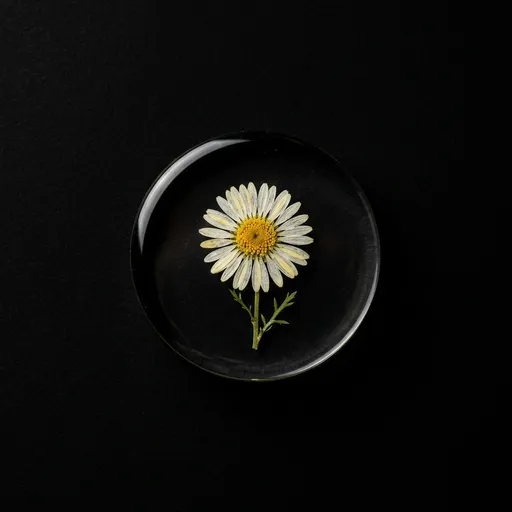
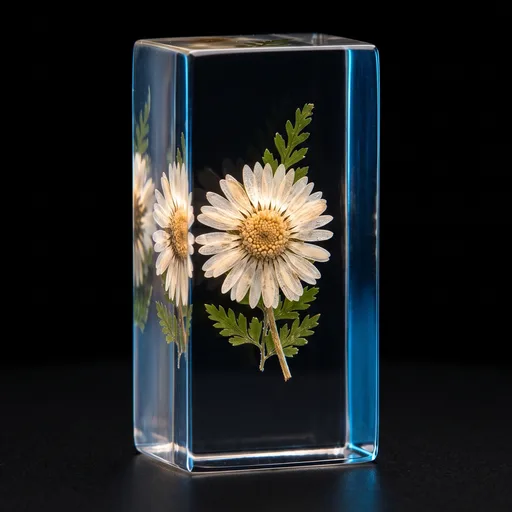
Resin casting: the printed-text tile gets a photo, the keepsake tile a better one
The generator frames the object loosely, and a tile renders at 217 px, so the
relief that is the whole point of the printed-text tile was lost. Cropping
brings both subjects from around two thirds of the frame to 86 per cent. The
raw 2 MB sources sat in public/ and would have shipped to production unused,
so they do not stay in the repository.

Claude-Session: https://claude.ai/code/session_01QfYq6TXNo3Y3WUxZkLPKgN

diff --git a/chat-api/pricing/epoxy.js b/chat-api/pricing/epoxy.js
@@ -306,7 +306,7 @@ export const INCLUSIONS = [
   // Ten sam napis wydrukowany na drukarce zywicznej: efekt lzejszy i bardziej
   // jednorodny z reszta przedmiotu, bo material jest ten sam.
   { id: "text_print", label: { pl: "Napis drukowany w żywicy", en: "Text printed in resin", de: "Schrift in Harz gedruckt" },
-    cost: 12, timeH: 0.8,
+    cost: 12, timeH: 0.8, img: "/img/calc/resin_inclusions/text_print.webp",
     desc: { pl: "Lżejszy, jednorodny z bryłą", en: "Lighter, uniform with the block", de: "Leichter, einheitlich mit dem Block" } },
   { id: "led",      label: { pl: "LED / elektronika", en: "LED / electronics", de: "LED / Elektronik" },
     cost: 15, timeH: 1.5,  img: "/img/calc/resin_inclusions/led.webp" },

diff --git a/src/pricing/epoxy.js b/src/pricing/epoxy.js
@@ -302,7 +302,7 @@ export const INCLUSIONS = [
   // Ten sam napis wydrukowany na drukarce zywicznej: efekt lzejszy i bardziej
   // jednorodny z reszta przedmiotu, bo material jest ten sam.
   { id: "text_print", label: { pl: "Napis drukowany w żywicy", en: "Text printed in resin", de: "Schrift in Harz gedruckt" },
-    cost: 12, timeH: 0.8,
+    cost: 12, timeH: 0.8, img: "/img/calc/resin_inclusions/text_print.webp",
     desc: { pl: "Lżejszy, jednorodny z bryłą", en: "Lighter, uniform with the block", de: "Leichter, einheitlich mit dem Block" } },
   { id: "led",      label: { pl: "LED / elektronika", en: "LED / electronics", de: "LED / Elektronik" },
     cost: 15, timeH: 1.5,  img: "/img/calc/resin_inclusions/led.webp" },

diff --git a/src/data/obrazyWarianty.js b/src/data/obrazyWarianty.js
@@ -147,6 +147,7 @@ export const WARIANTY_OBRAZOW = {
   "/img/calc/resin_inclusions/none.webp": [256, 384, 512],
   "/img/calc/resin_inclusions/object.webp": [256, 384, 512],
   "/img/calc/resin_inclusions/pigment.webp": [256, 384, 512],
+  "/img/calc/resin_inclusions/text_print.webp": [256, 384, 512],
   "/img/calc/resin_molds/client.webp": [256, 384, 512],
   "/img/calc/resin_molds/existing.webp": [256, 384, 512],
   "/img/calc/resin_molds/new_l.webp": [256, 384, 512],

diff --git a/MDs/Prompty_Grafiki_Zywica.md b/MDs/Prompty_Grafiki_Zywica.md
@@ -107,7 +107,20 @@ naraz i wszystkie cztery sa teraz zapisane w promptcie wprost:
 stokrotka i listkami paproci, chlodne swiatlo obrysowe, czarne tlo. Obecny plik to
 plaski krazek widziany z gory. Podmieniamy, chociaz nie bylo tego w planie.
 
+## Co juz stoi w repozytorium
+
+| Plik | Skad | Kadr |
+|---|---|---|
+| `resin_inclusions/text_print.webp` | pierwsze podejscie, przyjete | przedmiot z 64% kadru na 86% |
+| `resin_inclusions/object.webp` | podmiana starego plaskiego krazka | przedmiot z 70% kadru na 86% |
+
+Oba przyciete `scripts/kadruj-kafelek.mjs` z marginesem 0.08. Surowe pliki 2048 x 2048
+nie zostaja w repozytorium: kazdy wazyl 2 MB, a lezaly w `public/`, wiec szlyby do
+`dist/` i na produkcje, nie bedac nigdzie uzyte.
+
 ## Czego nadal brakuje
 
 `from_object`, `from_file`, `from_design` (trzy drogi powstania formy) oraz
-`text_plate` po poprawce promptu.
+`text_plate` po poprawce promptu. Do czasu ich dostarczenia kafelek
+„Napis na srebrnej blaszce" rysuje sie jako szesciokatny znak zastepczy,
+a trzy kafelki formy uzywaja zdjec po wycofanych wariantach rozmiarowych.
